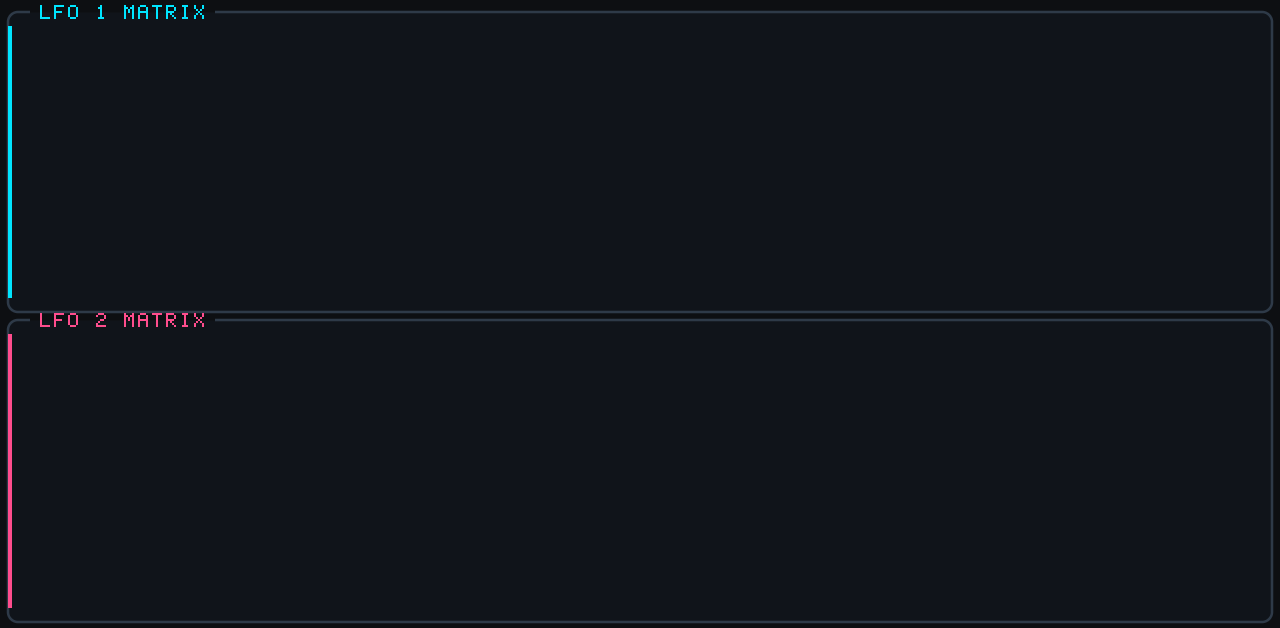
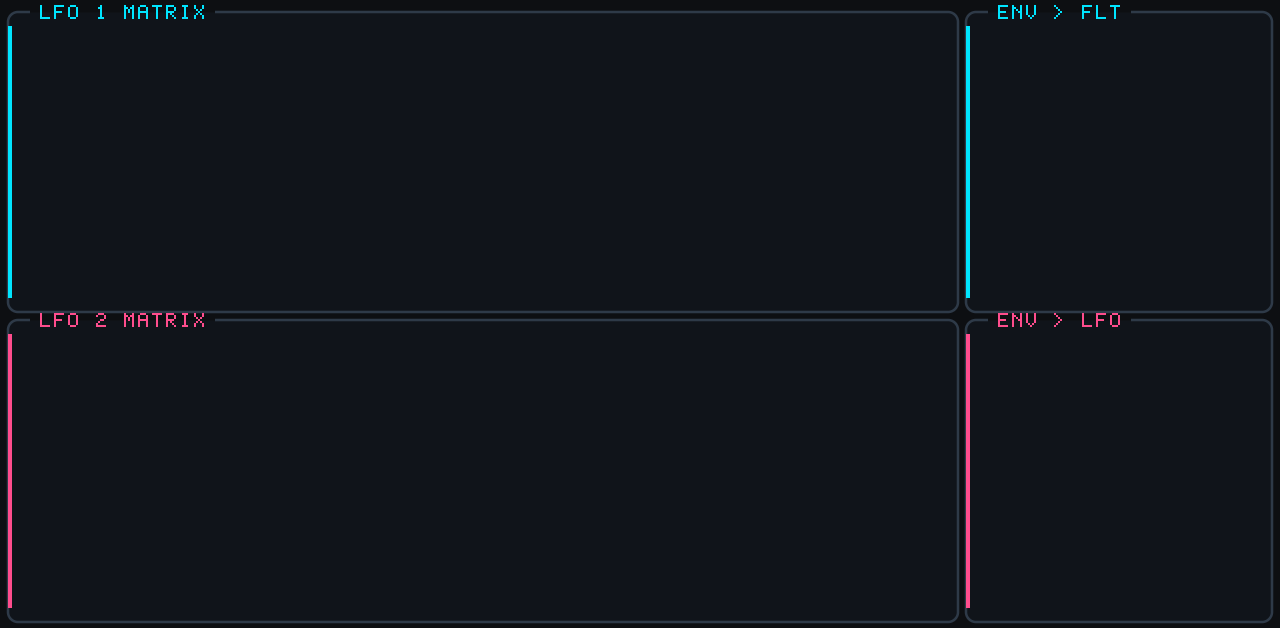
feat(Mushin): add Env Follower targets to LFO MTX (Env A Res, Env B Cut, Env L1 Spd, Env LFO Amt)

Changed region(s): [[0.75, 0.0605, 0.875, 0.5143], [0.75, 0.5446, 0.7812, 0.9682], [0.75, 0.0, 0.875, 0.0303]]

diff --git a/plugins/Mushin/src/Mushin.cpp b/plugins/Mushin/src/Mushin.cpp
@@ -942,6 +942,10 @@ public:
         kEnvCut,
         kEnvDrive,
         kFiltPreSat,
+        kEnvARes,
+        kEnvBCut,
+        kEnvL1Rate,
+        kEnvLfoAmt,
 
         kNumParams
     };
@@ -1152,6 +1156,10 @@ public:
         addParam(floatParam("env_cut",     "Env Cut",   -1.0f, 1.0f, 0.0f, "", 2));
         addParam(floatParam("env_drive",   "Env Drive", -1.0f, 1.0f, 0.0f, "", 2));
         addParam(boolParam ("filt_pre_sat","Flt->Sat",  false));
+        addParam(floatParam("env_a_res",   "Env A Res", -1.0f, 1.0f, 0.0f, "", 2));
+        addParam(floatParam("env_b_cut",   "Env B Cut", -1.0f, 1.0f, 0.0f, "", 2));
+        addParam(floatParam("env_l1_rate", "Env L1 Spd",-1.0f, 1.0f, 0.0f, "", 2));
+        addParam(floatParam("env_lfo_amt", "Env LFO Amt",-1.0f, 1.0f, 0.0f, "", 2));
 
         if (numParams() != kNumParams) mpc::log("Mushin: parameter count mismatch");
 
@@ -1346,11 +1354,20 @@ public:
         const bool filtPreSat = getBool(kFiltPreSat);
         const float envCutAmt = get(kEnvCut);
         const float envDriveAmt = get(kEnvDrive);
+        const float envAResAmt = get(kEnvARes);
+        const float envBCutAmt = get(kEnvBCut);
+        const float envL1RateAmt = get(kEnvL1Rate);
+        const float envLfoAmt = get(kEnvLfoAmt);
         const bool envCutActive = (std::fabs(envCutAmt) > 1.0e-4f);
         const bool envDriveActive = (std::fabs(envDriveAmt) > 1.0e-4f);
-        const bool envActive = envCutActive || envDriveActive;
+        const bool envAResActive = (std::fabs(envAResAmt) > 1.0e-4f);
+        const bool envBCutActive = (std::fabs(envBCutAmt) > 1.0e-4f);
+        const bool envL1RateActive = (std::fabs(envL1RateAmt) > 1.0e-4f);
+        const bool envLfoActive = (std::fabs(envLfoAmt) > 1.0e-4f);
+        const bool envActive = envCutActive || envDriveActive || envAResActive || envBCutActive || envL1RateActive || envLfoActive;
 
-        lfo1_.setFrequency(mpc::clamp(get(kLfo1Freq), 0.1f, 25.0f));
+        const float baseLfo1Freq = mpc::clamp(get(kLfo1Freq), 0.1f, 25.0f);
+        lfo1_.setFrequency(baseLfo1Freq);
         lfo1_.setShape(getInt(kLfo1Wave));
         lfo2_.setFrequency(mpc::clamp(get(kLfo2Freq), 0.1f, 25.0f));
         lfo2_.setShape(getInt(kLfo2Wave));
@@ -1531,12 +1548,16 @@ public:
             const float lfo2Val = lfo2_.process();
 
             if ((s & 15) == 0) {
+                if (envL1RateActive) {
+                    lfo1_.setFrequency(mpc::clamp(baseLfo1Freq * std::pow(2.0f, envL1RateAmt * envVal * 3.0f), 0.1f, 35.0f));
+                }
+                const float lfoScale = envLfoActive ? std::pow(2.0f, envLfoAmt * envVal * 2.0f) : 1.0f;
                 float off[6];
                 for (int t = 0; t < 6; ++t) {
-                    off[t] = lfo1Val * mod1[t] + lfo2Val * mod2[t];
+                    off[t] = (lfo1Val * mod1[t] + lfo2Val * mod2[t]) * lfoScale;
                 }
                 off[0] += fmMod + envCutAmt * envVal;
-                off[3] += fmMod + envCutAmt * envVal;
+                off[3] += fmMod + (envCutAmt + envBCutAmt) * envVal;
 
                 float cutA = baseFACutoff * std::pow(2.0f, off[0] * 5.0f);
                 float cutB = baseFBCutoff * std::pow(2.0f, off[3] * 5.0f);
@@ -1547,11 +1568,11 @@ public:
                 }
 
                 const bool modA = (std::fabs(mod1[0]) > 1e-4f || std::fabs(mod2[0]) > 1e-4f || fmAmount > 1e-4f ||
-                                   envCutActive || (sidechain_.isActive() && scCutTarget));
+                                   envCutActive || envAResActive || (sidechain_.isActive() && scCutTarget));
                 const bool modB = (std::fabs(mod1[3]) > 1e-4f || std::fabs(mod2[3]) > 1e-4f || fmAmount > 1e-4f ||
-                                   envCutActive || (sidechain_.isActive() && scCutTarget));
+                                   envCutActive || envBCutActive || (sidechain_.isActive() && scCutTarget));
 
-                float resoA = baseFAReso + off[1];
+                float resoA = baseFAReso + off[1] + envAResAmt * envVal * 0.90f;
                 if (sidechain_.isActive() && scResoTarget) {
                     resoA += scMod * 0.5f;
                 }
@@ -2045,6 +2066,7 @@ private:
             {kFBType, 2.0f}, {kFBMode, 2.0f}, {kFBCutoff, 2200.0f}, {kFBReso, 0.68f}, {kFBDrive, 1.5f},
             {kLfo1Freq, 4.2f}, {kLfo1Wave, 4.0f}, {kModL1T1, 0.62f},
             {kLfo2Freq, 0.85f}, {kLfo2Wave, 2.0f}, {kModL2T4, -0.55f},
+            {kEnvBCut, -0.35f}, {kEnvL1Rate, 0.30f},
             {kDelayActive, 1.0f}, {kDelaySync, 1.0f}, {kDelayTempo, 0.0f}, {kDelayPingPong, 1.0f},
             {kDelayFeedback, 0.42f}, {kDelayMix, 0.26f},
             {kLimActive, 1.0f}, {kLimMode, 1.0f}, {kLimDrive, 2.4f}, {kLimCeiling, -0.3f}
@@ -2468,7 +2490,7 @@ private:
         addPreset("COMBO: Acid Rave", {
             {kScvActive, 1.0f}, {kDrive, 4.0f}, {kThreshold, -4.5f}, {kAutoGain, 1.0f}, {kFiltPreSat, 1.0f},
             {kFAType, 2.0f}, {kFAMode, 0.0f}, {kFACutoff, 550.0f}, {kFAReso, 0.80f}, {kFADrive, 2.2f},
-            {kLfo1Freq, 0.50f}, {kLfo1Wave, 2.0f}, {kModL1T1, 0.65f}, {kEnvCut, 0.28f},
+            {kLfo1Freq, 0.50f}, {kLfo1Wave, 2.0f}, {kModL1T1, 0.65f}, {kEnvCut, 0.28f}, {kEnvARes, 0.25f},
             {kTgActive, 1.0f}, {kTgPattern, 4.0f}, {kTgDepth, 75.0f}, {kTgHold, 60.0f},
             {kDelayActive, 1.0f}, {kDelaySync, 1.0f}, {kDelayTempo, 0.0f}, {kDelayPingPong, 1.0f},
             {kDelayFeedback, 0.35f}, {kDelayMix, 0.25f},

diff --git a/plugins/Mushin/bin/make_panels.py b/plugins/Mushin/bin/make_panels.py
@@ -373,11 +373,21 @@ def main():
     magenta = (0xFF, 0x4D, 0x8D, 255)
     for filename, top_title, bot_title in PAGES:
         buf = bytearray(bytes(BG) * (W * H))
-        draw_panel(buf, 8, 12, 1264, 300, top_title, TITLE_COL)
-        if bot_title is not None:
-            draw_panel(buf, 8, 320, 1264, 302, bot_title, magenta)
-        draw_filled_box(buf, W, H, 8, 26, 4, 272, cyan)
-        draw_filled_box(buf, W, H, 8, 334, 4, 274, magenta)
+        if filename == "bg_matrix.png":
+            draw_panel(buf, 8, 12, 950, 300, top_title, TITLE_COL)
+            draw_panel(buf, 966, 12, 306, 300, "ENV > FLT", TITLE_COL)
+            draw_panel(buf, 8, 320, 950, 302, bot_title, magenta)
+            draw_panel(buf, 966, 320, 306, 302, "ENV > LFO", magenta)
+            draw_filled_box(buf, W, H, 8, 26, 4, 272, cyan)
+            draw_filled_box(buf, W, H, 966, 26, 4, 272, cyan)
+            draw_filled_box(buf, W, H, 8, 334, 4, 274, magenta)
+            draw_filled_box(buf, W, H, 966, 334, 4, 274, magenta)
+        else:
+            draw_panel(buf, 8, 12, 1264, 300, top_title, TITLE_COL)
+            if bot_title is not None:
+                draw_panel(buf, 8, 320, 1264, 302, bot_title, magenta)
+            draw_filled_box(buf, W, H, 8, 26, 4, 272, cyan)
+            draw_filled_box(buf, W, H, 8, 334, 4, 274, magenta)
         if filename == "bg_filter.png":
             draw_panel(buf, 975, 478, 294, 136, "ROUTING", TITLE_COL)
             # Filter A & B Freq x Res XY telemetry bays (Row 1, cols 2-3: 656..1254, y=180..287)

diff --git a/plugins/Mushin/README.md b/plugins/Mushin/README.md
@@ -20,8 +20,8 @@ Input ─▶ [Pre-Dist Noise] ─▶ S-Curve Waveshaper (bypassable) ─▶ [Pre
 - **MAIN (`F1`)**: 8 Performance Macro Orbs (`EXHAUSTION`, `CHOKE`, `INFO DECAY`, `CORRUPT MIX`, `KINETIC MOD`, `RESONATOR`, `GATE CARVE`, `SMASH`) mapped to Q-Link Banks 1–2 (`Q-Link 13..16`, `9..12`).
 - **S-CURVE (`F2`)**: `S-Curve` (`Active`, `Drive`, `Threshold`, `Dry/Wet Mix`, `Exhaustion`, `Auto Gain`, `Gain`) / `Info Decay` (`Active`, `Bit Depth`, `Downsample`, `Mix`, `Exh Link`) with a live `#FF4D8D` pixelated background strip scaling with crunch intensity.
 - **FILTER (`F3`)**: `Filter A` (Cyan) & `Filter B` (Magenta) (`Cutoff`, `Reso`, `Drive`, `Grit`, icon-baked `CLN`/`VOWL`/`ACID`/`DIGI` Type & `LP`/`HP`/`BP`/`NOTCH` Mode switches), `Filt Mix`, `Routing` (`SERIAL`/`PARAL`/`STEREO` L→A / R→B / `M/S` Mid→A / Side→B), and dual live `A FREQ X RES` / `B FREQ X RES` XY pads.
-- **LFO (`F4` SubTab 1)**: `LFO 1 & 2` (`Freq` + 5-way icon `Wave` buttons), live `LFO 1 X × LFO 2 Y` XY pad, and `Noise Osc` (`Active`, 6-way icon `Type`, `Freq`, `Level`, icon-baked `Route`, `Filter FM`).
-- **LFO MTX (`F4` SubTab 2)**: 2×6 bipolar modulation matrix targeting Filter A/B `Cutoff`, `Reso`, and `Grit`.
+- **LFO (`F4` SubTab 1)**: `LFO 1 & 2` (`Freq` + 5-way icon `Wave` buttons), live `LFO 1 X × LFO 2 Y` XY pad, `Noise Osc` (`Active`, 6-way icon `Type`, `Freq`, `Level`, icon-baked `Route`, `Filter FM`), and `Env Follower` (`Env Cut`, `Env Drive`).
+- **LFO MTX (`F4` SubTab 2)**: 2×6 bipolar LFO modulation matrix targeting Filter A/B `Cutoff`, `Reso`, and `Grit`, plus Column 4 `Env Follower` matrix destinations (`Env A Res`, `Env B Cut`, `Env L1 Spd`, `Env LFO Amt`).
 - **GATE (`F5` SubTab 1)**: `Trance Gate` (`Active`, 128-pattern `Pattern` menu, `Rate` `1/16`/`1/8`/`1/4`, `Depth`, `Mix`), 16 tappable `Step 1..16` toggle buttons, and `Gate Env` (`Start`, `Hold`, `End`, `Offset` `-100%..+100%` + live `AHDS` `Envelope` graph synced with `Depth`/`Floor`).
 - **PUMP (`F5` SubTab 2)**: Sidechain Pumper (`Active`, `Mode` `PEAK`/`RMS`, `Ratio`, `Mix`, `Thresh`, `Amount`, `Attack`, `Release`, `HPF`, `LPF`, independent `SC Drive` / `SC Cut` / `SC Gain` / `SC Reso` target toggles, `Source` `INT`/`TEST`, and vertical `IN` cyan / `DUCK` magenta LED meters).
 - **DLY+LIM (`F6`)**: `Delay` (`Active`, `Sync`, `Ping-Pong`, `Feedback`, `Time`/`Tempo`, `Mix`) and `Limiter` (`Active`, `Drive`, `Release`, `Ceiling`, `Mode` `CLN`/`LMC`, `Mix`, and horizontal cyan-to-magenta `LIMITER GR` gain-reduction meter).
